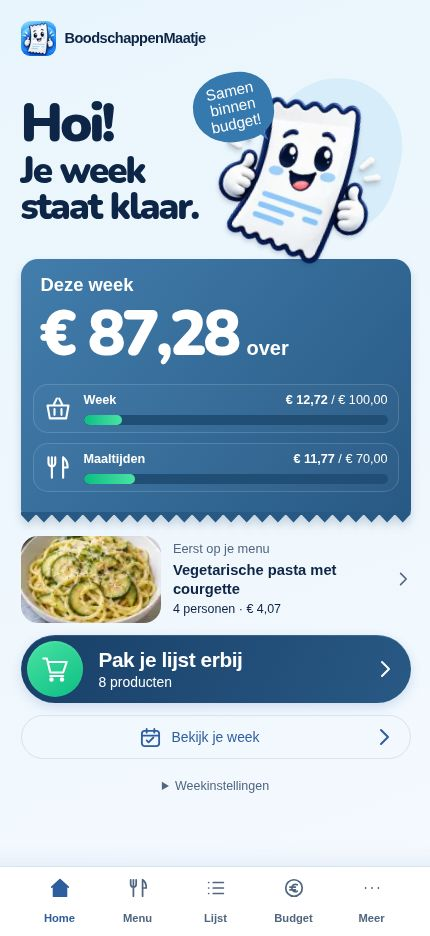
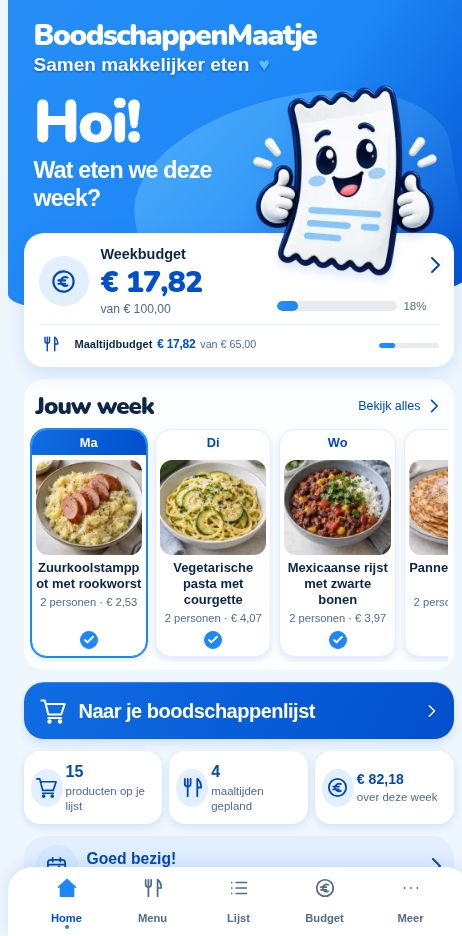
docs(home): record green CI, actual Preview screenshots and iPhone acceptance checklist

diff --git a/PROJECT_STATE.md b/PROJECT_STATE.md
@@ -8,8 +8,13 @@
 - Echte budgetberekening behouden: weekkosten prominent, maaltijdkosten/-grens afzonderlijk in dezelfde kaart, resterend bedrag in informatiekaart. Onbekende/onvolledige prijs, geen budget en overschrijding blijven expliciet. Geen bedragen/gerechten/personen uit mockup hardcoded.
 - Slider blijft opgeslagen dagvolgorde, bestaande foto/fallback, actuele personen/verpakkingsprijs en exacte `/week-voorbereiden?day=N` / `/vrije-keuze?day=N`-routes gebruiken. Vinkje betekent werkelijk ingepland gerecht, geen afgevinkte boodschappen of nieuwe dagselectie. Eerste kaart is uitsluitend visueel uitgelicht; geen nieuwe state.
 - Bewuste verschillen met mockup: geen niet-functionele notificatiebel; behouden aparte maaltijdbudgetregel en werkelijke gerechtkosten/personen; onderste Weekinstellingen/Nieuwe week blijven bereikbaar. Echte gegevens en passende bestaande gerechtbeelden vervangen voorbeeldinhoud.
-- Lokale eerste volledige controle: 788 webtests, lint, TypeScript, Production-build, 275 importerfixtures en seed-/syntaxchecks groen. Twee aanvullende presentatieregressies bewaken echte informatiekaarttellingen en onvolledig geprijsde weekruimte; definitieve CI/Preview en echte browserbeelden volgen op de functionele head.
-- Status: implementatie gereed voor Preview-controle; fysieke iPhone-goedkeuring nog niet gegeven. Geen merge, Production-deploy, productimport of databasewijziging.
+- Hervatting na timeout: de bestaande slider/dagroutes stonden al op PR-head `d288e53`; de mockupimplementatie stond lokaal, nog niet gepusht. In deze hervatting afgerond en gepusht als `83389fc`, met laatste CSS-afwerking `3d77f962784370d6b11c44114d6d9cc659eb0963`. Het daaropvolgende documentatiecheckpoint verandert geen functionele code; actuele PR-head is GitHub PR #30.
+- Verificatie: **790/790 webtests**, **275/275 importerfixtures**, seed-/syntaxchecks, lint, TypeScript en Production-build groen. CI `36702091114` op `83389fc` volledig groen; definitieve CSS-head-CI **`36702753471` volledig groen**. Twee nieuwe presentatieregressies bewaken echte informatiekaarttellingen en onvolledig geprijsde budgetruimte.
+- Preview `dpl_4xcf4KSUPWWZE3o8bWTohc7Gd9Zh`, echte codehead `3d77f96`, target Preview, **READY**. Stabiele branchlink: https://boodschappenmaatje-pwa-git-feature-ho-02f3d4-dennisverkaik-4661.vercel.app/ . Een later documentatiecheckpoint krijgt mogelijk een nieuwe inhoudelijk identieke Preview.
+- Echte browsercontrole: lege Home, daarna via normale Preview-UI een lokale week met 2 personen/5 dagen, vier echte plannerrecepten en één vrije-keuzedag. 15 lijstregels/16 verpakkingen, € 17,82 gepland, weekbudget € 100, maaltijdgrens € 65 en € 82,18 resterend; identiek op Home/Lijst/Budget. Geen fictieve gerechten/prijzen geïnjecteerd. Dit zijn browserlokale testkeuzes, geen Production-gebruikersgegevens.
+- Dinsdagkaart opende `/week-voorbereiden?day=1` met het juiste receptdetail; vrijdag opende `/vrije-keuze?day=4`. Horizontale slider 418 px breed/616 px inhoud, zelfstandig naar laatste kaart gescrold; alle Home-acties minimaal 44 px hoog. Afbeeldingen geladen, opgeslagen week na reload behouden. Geen horizontale pagina-overflow op de geteste cloudbrowser.
+- Werkelijke screenshots bijgewerkt in `docs/screenshots/home-option-c-preview.jpg` en `docs/screenshots/home-option-c-week-slider.jpg`. Het zijn uitsneden van de echte 430 px brede Home-inhoud in de desktopcloudbrowser, geen gegenereerde mockup en geen iPhone-emulatie. Safari, fysieke safe areas, kleine iPhone-hoogtes en native swipe blijven fysieke acceptatiepunten.
+- Status: **KLAAR VOOR FYSIEKE IPHONE-TEST**, definitieve functionele CI groen. Fysieke goedkeuring nog niet gegeven. PR #30 blijft Draft. Geen merge, Production-deploy, productimport of databasewijziging. DESIGN.md en PR #37 ongewijzigd.
 
 
 ## Actueel — herstel gereleased; operationele eindverificatie deels open — 30 september 2026

diff --git a/docs/home-option-c.md b/docs/home-option-c.md
@@ -1,3 +1,29 @@
+## Actuele mockupacceptatie — 30 september 2026
+
+Functionele head: `3d77f962784370d6b11c44114d6d9cc659eb0963`. Oudere hieronder beschreven metallic/speech-bubble-stijl is door de nieuwe goedgekeurde mockup vervangen.
+
+- Helderblauwe Home-palette uit het bestaande originele app-icoon: #1D87F7, #278EF7, #62BFFC, #034ECD, #0448B3. Andere schermen en officiële app-iconen blijven onveranderd.
+- Witte budgetkaart met afzonderlijke week- en maaltijdregel; compacte horizontale weekkaarten; primaire boodschappenlijstknop; drie informatiekaarten met echte appgegevens.
+- Lokale controles: 790 webtests, 275 importerfixtures, syntax/seedchecks, lint, TypeScript en build groen. CI 36702091114 groen; finale CSS-CI 36702753471 volledig groen.
+- Preview: https://boodschappenmaatje-pwa-git-feature-ho-02f3d4-dennisverkaik-4661.vercel.app/ ; deployment dpl_4xcf4KSUPWWZE3o8bWTohc7Gd9Zh READY, Preview-target.
+- Echte browserflow gecontroleerd: vijf dagen, vier gerechten, vrije keuze dag vijf, dag twee opent juiste receptdetail, lijst- en budgettotalen gelijk, cold reload behoudt opgeslagen gegevens. Geen databasewrites/import.
+- Screenshots hieronder tonen echte Preview-data uit normale browserlokale voorbereiding, geen vaste voorbeeldinhoud. De inhoudkolom is 430 px; deze browsercontrole vervangt geen fysieke iPhone-test.
+
+![Actuele echte Home Preview](screenshots/home-option-c-preview.jpg)
+
+![Horizontale slider en onderste informatie](screenshots/home-option-c-week-slider.jpg)
+
+### Nog te accepteren op fysieke iPhone
+
+1. Open de Preview in Safari; controleer helderblauw, mascotte, kaartverhoudingen en tekst.
+2. Swipe door alle weekdagen en open een gerecht: juiste Menu-dag/recept. Controleer ook vrije keuze en een lege week indien beschikbaar.
+3. Open Lijst en Budget; bedragen, geplande maaltijden en opgeslagen keuzes moeten gelijk blijven na teruggaan/herladen.
+4. Controleer smalle/korte schermweergave, safe areas, onderste vijf tabs, scrollen en bereikbaarheid van de hoofdknop.
+
+Bewuste mockupverschillen: geen niet-functionele notificatiebel; aparte maaltijdgrens behouden; echte namen/foto's/personen/prijzen en instellingen. Lange namen vragen soms meer regels; de Home is scrollbaar op korte schermen. Geen merge of Production-release vóór expliciete fysieke goedkeuring; DESIGN.md nog niet projectbreed aanpassen.
+
+---
+
 # Home Optie C — implementatie en acceptatie
 
 ## Bron en scope
